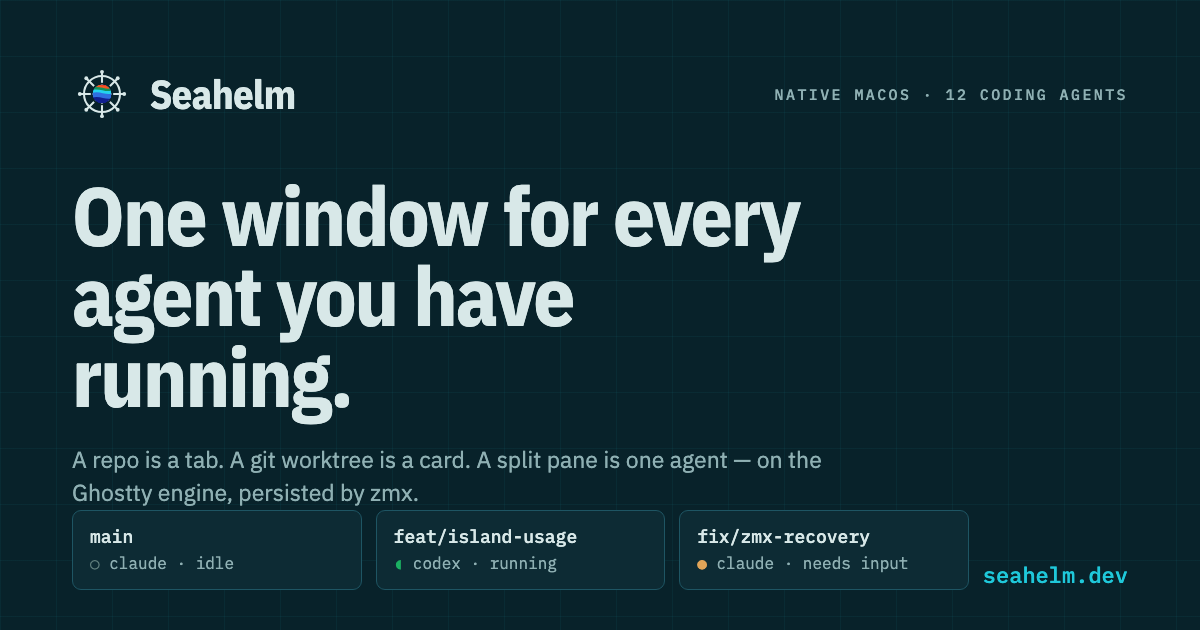
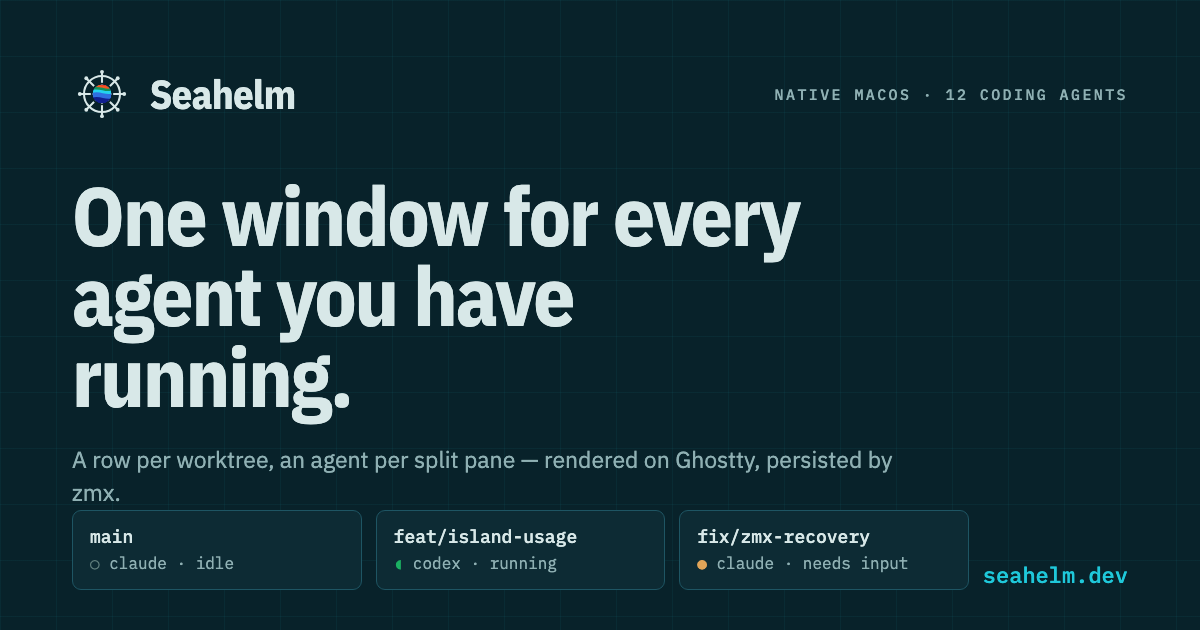
fix(site): the page described an app that no longer has tabs
"A repo is a tab. A git worktree is a card." — neither is true any more. The
main window hosts a dashboard, not a tab bar; the only tab strips left are the
side panel's First Mate / Files / Changes and edit mode's pane strip. What the
window shows is `DashboardOverviewView`'s own description of itself: a
full-width fleet overview, every worktree a row, grouped by the chosen mode —
repository, status, activity time, or expanded to every pane.

The sentence was the first thing on the site and it sat in ten places: the
hero on both pages, three meta descriptions on each, and the two social cards.
All ten now say the same thing (version C of four offered, chosen for keeping
the page's nautical voice):

  Your fleet sits on one roster: a row per worktree, mustered by repo, by
  status, or by what moved last, one agent to a split pane.

  你的舰队排在一张名册上：每个 worktree 一行，按仓库、状态或最近动向编队，
  每个 split pane 里坐着一个 agent。

"Roster", not "manifest": the page uses manifest later for the JSON detection
rules, and the collision would mislead.

Found while verifying, in the same paragraph: "Four dashboard layouts — grid,
left/right, top-small, top-large" is also stale. Only `setupLeftRightLayout()`
exists (`dashboard.layout.left-right`); the grid mentions left in
`DashboardFocusController` are comments about directional movement. The row
now describes the four grouping modes instead, which are what a user actually
picks between. CLAUDE.md carries the same stale line and is left for a
[…]

Changed region(s): [[0.0617, 0.7238, 0.74, 0.8143]]

diff --git a/site/zh/index.html b/site/zh/index.html
@@ -4,7 +4,7 @@
 <meta charset="utf-8">
 <meta name="viewport" content="width=device-width, initial-scale=1">
 <title>Seahelm &mdash; 为 coding agent 准备的原生 macOS 工作台</title>
-<meta name="description" content="Seahelm 是一个为 coding agent、git worktree 和并行开发准备的原生 macOS 工作台。一个仓库是一个 tab，一个 worktree 是一张卡片，一个 split pane 就是一个 agent&mdash;&mdash; 由 Ghostty 引擎渲染，由 zmx 保持会话。">
+<meta name="description" content="Seahelm 是一个为 coding agent、git worktree 和并行开发准备的原生 macOS 工作台。每个 worktree 一行，每个 split pane 一个 agent —— Ghostty 引擎渲染，zmx 保持会话。">
 <link rel="canonical" href="https://www.seahelm.dev/zh/">
 <link rel="alternate" hreflang="en" href="https://www.seahelm.dev/">
 <link rel="alternate" hreflang="zh-Hans" href="https://www.seahelm.dev/zh/">
@@ -17,7 +17,7 @@
 <meta property="og:locale" content="zh_CN">
 <meta property="og:locale:alternate" content="en_US">
 <meta property="og:title" content="Seahelm &mdash; 一个窗口，管住所有在跑的 agent">
-<meta property="og:description" content="Seahelm 是一个为 coding agent、git worktree 和并行开发准备的原生 macOS 工作台。一个仓库是一个 tab，一个 worktree 是一张卡片，一个 split pane 就是一个 agent&mdash;&mdash; 由 Ghostty 引擎渲染，由 zmx 保持会话。">
+<meta property="og:description" content="Seahelm 是一个为 coding agent、git worktree 和并行开发准备的原生 macOS 工作台。每个 worktree 一行，每个 split pane 一个 agent —— Ghostty 引擎渲染，zmx 保持会话。">
 <meta property="og:image" content="https://www.seahelm.dev/og.zh.png">
 <meta property="og:image:width" content="1200">
 <meta property="og:image:height" content="630">
@@ -25,7 +25,7 @@
 
 <meta name="twitter:card" content="summary_large_image">
 <meta name="twitter:title" content="Seahelm &mdash; 一个窗口，管住所有在跑的 agent">
-<meta name="twitter:description" content="Seahelm 是一个为 coding agent、git worktree 和并行开发准备的原生 macOS 工作台。一个仓库是一个 tab，一个 worktree 是一张卡片，一个 split pane 就是一个 agent&mdash;&mdash; 由 Ghostty 引擎渲染，由 zmx 保持会话。">
+<meta name="twitter:description" content="Seahelm 是一个为 coding agent、git worktree 和并行开发准备的原生 macOS 工作台。每个 worktree 一行，每个 split pane 一个 agent —— Ghostty 引擎渲染，zmx 保持会话。">
 <meta name="twitter:image" content="https://www.seahelm.dev/og.zh.png">
 
 <meta name="theme-color" content="#eaf1f9" media="(prefers-color-scheme: light)">
@@ -85,9 +85,9 @@
       <p class="eyebrow"><span class="mark">&#9679;</span> 为 coding agent 准备的原生 macOS 工作台</p>
       <h1>一个窗口，管住所有在跑的 agent。</h1>
       <p class="lede">
-        一个仓库是一个 tab，一个 git worktree 是一张卡片，一个 split pane 就是一个 agent。
-        Seahelm 用 Ghostty 引擎逐个渲染它们，盯着它们在做什么，并让会话在重启后依然活着。
-        十二种 agent CLI 开箱即用。
+        你的舰队排在一张名册上：每个 worktree 一行，按仓库、状态或最近动向编队，每个 split pane
+        里坐着一个 agent。Seahelm 用 Ghostty 引擎把它们逐个画出来，盯着谁在干活、谁在等你，
+        重启之后每个会话都还在原位。十二种 agent CLI 开箱即用。
       </p>
 
       <div class="fleet">
@@ -242,7 +242,7 @@
     <dl class="rows">
       <div class="row">
         <dt>分屏与布局</dt>
-        <dd>每个 worktree 一棵二叉分屏树，可以拖分隔条，也可以纯键盘操作。仪表盘有四种布局 —— 网格、左右、上小、上大 —— 整棵树会序列化进配置，重启后原样恢复。</dd>
+        <dd>每个 worktree 一棵二叉分屏树，可以拖分隔条，也可以纯键盘操作，整棵树会序列化进配置，重启后原样恢复。舰队列表可以按仓库、按状态、按最近活动分组，或展开到每个 pane。</dd>
       </div>
       <div class="row">
         <dt>侧边栏</dt>

diff --git a/site/index.html b/site/index.html
@@ -4,7 +4,7 @@
 <meta charset="utf-8">
 <meta name="viewport" content="width=device-width, initial-scale=1">
 <title>Seahelm &mdash; a native macOS workspace for coding agents</title>
-<meta name="description" content="Seahelm is a native macOS workspace for coding agents, git worktrees and parallel development. A repo is a tab, a worktree is a card, a split pane is one agent — rendered on the Ghostty engine, persisted by zmx.">
+<meta name="description" content="Seahelm is a native macOS workspace for coding agents, git worktrees and parallel development. A row per worktree, an agent per split pane — rendered on Ghostty, persisted by zmx.">
 <link rel="canonical" href="https://www.seahelm.dev/">
 <link rel="alternate" hreflang="en" href="https://www.seahelm.dev/">
 <link rel="alternate" hreflang="zh-Hans" href="https://www.seahelm.dev/zh/">
@@ -17,7 +17,7 @@
 <meta property="og:locale" content="en_US">
 <meta property="og:locale:alternate" content="zh_CN">
 <meta property="og:title" content="Seahelm &mdash; one window for every agent you have running">
-<meta property="og:description" content="Seahelm is a native macOS workspace for coding agents, git worktrees and parallel development. A repo is a tab, a worktree is a card, a split pane is one agent — rendered on the Ghostty engine, persisted by zmx.">
+<meta property="og:description" content="Seahelm is a native macOS workspace for coding agents, git worktrees and parallel development. A row per worktree, an agent per split pane — rendered on Ghostty, persisted by zmx.">
 <meta property="og:image" content="https://www.seahelm.dev/og.png">
 <meta property="og:image:width" content="1200">
 <meta property="og:image:height" content="630">
@@ -25,7 +25,7 @@
 
 <meta name="twitter:card" content="summary_large_image">
 <meta name="twitter:title" content="Seahelm &mdash; one window for every agent you have running">
-<meta name="twitter:description" content="Seahelm is a native macOS workspace for coding agents, git worktrees and parallel development. A repo is a tab, a worktree is a card, a split pane is one agent — rendered on the Ghostty engine, persisted by zmx.">
+<meta name="twitter:description" content="Seahelm is a native macOS workspace for coding agents, git worktrees and parallel development. A row per worktree, an agent per split pane — rendered on Ghostty, persisted by zmx.">
 <meta name="twitter:image" content="https://www.seahelm.dev/og.png">
 
 <meta name="theme-color" content="#eaf1f9" media="(prefers-color-scheme: light)">
@@ -85,9 +85,10 @@
       <p class="eyebrow"><span class="mark">&#9679;</span> A native macOS workspace for coding agents</p>
       <h1>One window for every agent you have running.</h1>
       <p class="lede">
-        A repo is a tab. A git worktree is a card. A split pane is one agent. Seahelm renders every
-        one of them on the Ghostty engine, watches what they are doing, and keeps their sessions
-        alive across a reboot. Twelve agent CLIs work out of the box.
+        Your fleet sits on one roster: a row per worktree, mustered by repo, by status, or by what
+        moved last, one agent to a split pane. Seahelm draws every one of them on the Ghostty engine,
+        watches who is working and who is waiting on you, and after a reboot every session is where
+        you left it. Twelve agent CLIs work out of the box.
       </p>
 
       <div class="fleet">
@@ -242,7 +243,7 @@
     <dl class="rows">
       <div class="row">
         <dt>Splits &amp; layouts</dt>
-        <dd>A binary split tree per worktree, dragged by dividers or driven from the keyboard. Four dashboard layouts &mdash; grid, left/right, top-small, top-large &mdash; and the whole tree serializes to config, so relaunch restores it.</dd>
+        <dd>A binary split tree per worktree, dragged by dividers or driven from the keyboard, and serialized to config so relaunch restores it. The fleet list groups by repo, by status, by last activity, or expands to every pane.</dd>
       </div>
       <div class="row">
         <dt>Side panel</dt>

diff --git a/scripts/og-card.zh.html b/scripts/og-card.zh.html
@@ -22,7 +22,7 @@
            letter-spacing:.16em;text-transform:uppercase;color:var(--ink2)}
   h1{margin:46px 0 0;font:700 76px/1.2 "IBM Plex Sans Condensed","PingFang SC",sans-serif;
      letter-spacing:0;max-width:15em}
-  .sub{margin:26px 0 0;font-size:23px;line-height:1.75;color:var(--ink2);max-width:30em}
+  .sub{margin:26px 0 0;font-size:23px;line-height:1.75;color:var(--ink2);max-width:36em}
   .strip{margin-top:auto;display:flex;gap:14px;align-items:stretch}
   .card{flex:1;border:1px solid #1e5563;border-radius:9px;background:#0d2b34;
         padding:15px 17px;display:grid;gap:7px;align-content:start}
@@ -54,8 +54,8 @@
   </div>
 
   <h1>一个窗口，管住所有在跑的 agent。</h1>
-  <p class="sub">一个仓库是一个 tab，一个 git worktree 是一张卡片，一个 split pane 就是一个 agent &mdash;&mdash;
-     跑在 Ghostty 引擎上，由 zmx 保持会话。</p>
+  <p class="sub">每个 worktree 一行，每个 split pane 一个 agent &mdash;&mdash;
+     Ghostty 引擎渲染，zmx 保持会话。</p>
 
   <div class="strip">
     <div class="card"><div class="b">main</div>

diff --git a/scripts/og-card.html b/scripts/og-card.html
@@ -54,8 +54,8 @@
   </div>
 
   <h1>One window for every agent you have running.</h1>
-  <p class="sub">A repo is a tab. A git worktree is a card. A split pane is one agent &mdash;
-     on the Ghostty engine, persisted by zmx.</p>
+  <p class="sub">A row per worktree, an agent per split pane &mdash;
+     rendered on Ghostty, persisted by zmx.</p>
 
   <div class="strip">
     <div class="card"><div class="b">main</div>
